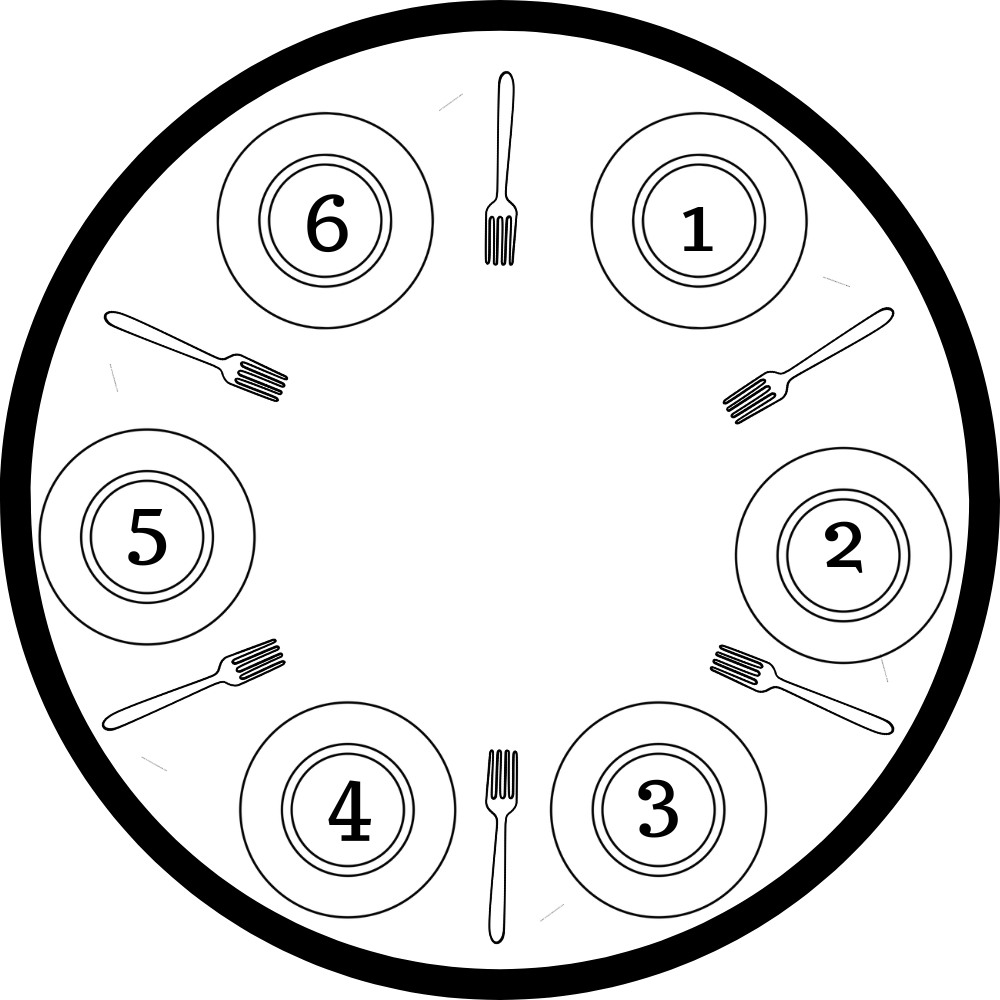
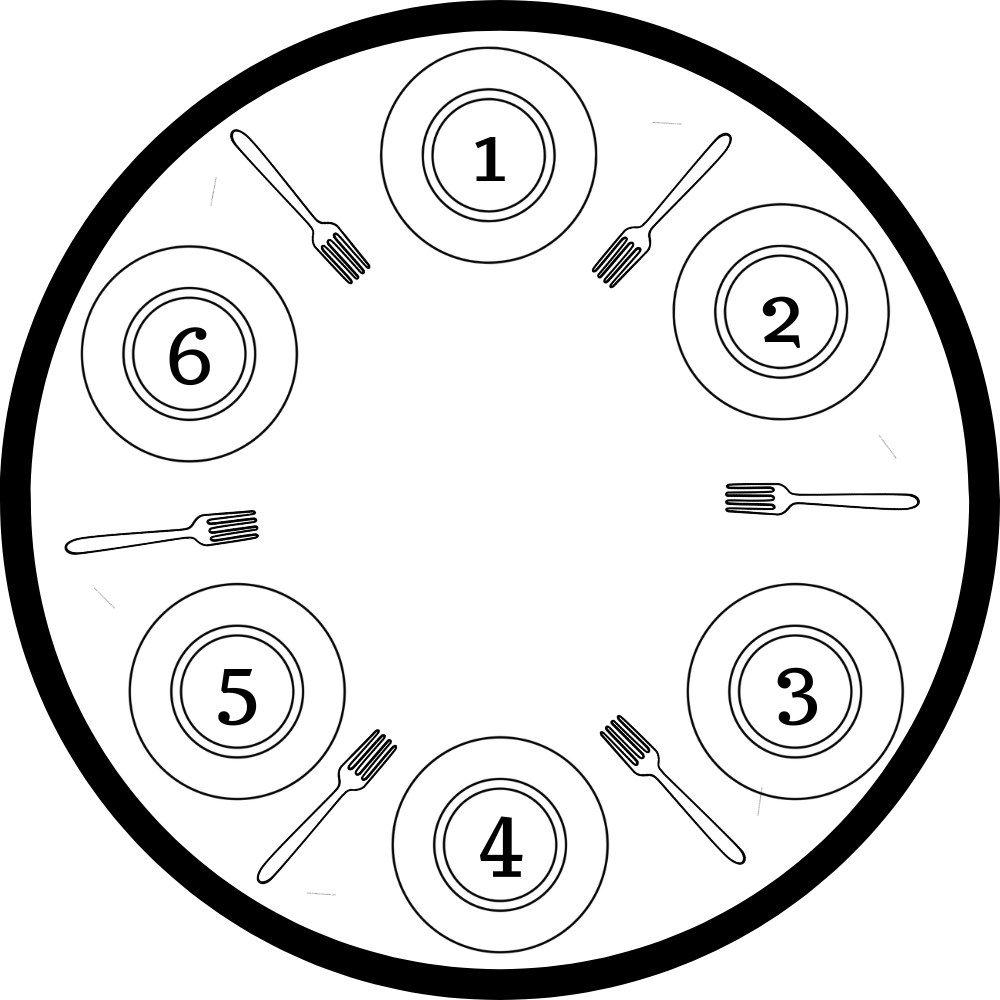
Positioning Elements

diff --git a/src/app/components/quantity-selection/logic-application-philosophers/logic-application-philosophers.component.ts b/src/app/components/quantity-selection/logic-application-philosophers/logic-application-philosophers.component.ts
@@ -1,20 +1,21 @@
-import { Component, Input, OnChanges, SimpleChanges, ChangeDetectorRef } from '@angular/core';
+import { Component, Input, OnChanges, SimpleChanges, ChangeDetectorRef, OnDestroy } from '@angular/core';
 
 @Component({
   selector: 'app-logic-application-philosophers',
   templateUrl: './logic-application-philosophers.component.html',
   styleUrls: ['./logic-application-philosophers.component.scss']
 })
-export class LogicApplicationPhilosophersComponent implements OnChanges {
+export class LogicApplicationPhilosophersComponent implements OnChanges, OnDestroy {
   @Input() quantidadeFilosofos?: number = 3;
   imagemFilosofo: string = './assets/images/mesa3.png';
   filosofos: any[] = [];
-  private execucaoAtiva: boolean = false; 
+  private execucaoAtiva: boolean = false;
+  private intervalId: any = null;
 
   constructor(private cdr: ChangeDetectorRef) {}
 
   ngOnChanges(changes: SimpleChanges): void {
-    const quantidadeFilosofos = this.quantidadeFilosofos ?? 0; 
+    const quantidadeFilosofos = this.quantidadeFilosofos ?? 0;
     if (changes['quantidadeFilosofos'] && quantidadeFilosofos !== undefined) {
       console.log('Valor atualizado:', quantidadeFilosofos);
       this.atualizarImagemFilosofo();
@@ -23,7 +24,10 @@ export class LogicApplicationPhilosophersComponent implements OnChanges {
       this.cdr.detectChanges();
     }
   }
-  
+
+  ngOnDestroy(): void {
+    this.clearTemporizador();
+  }
 
   private atualizarImagemFilosofo(): void {
     if (this.quantidadeFilosofos && this.quantidadeFilosofos >= 3 && this.quantidadeFilosofos <= 7) {
@@ -34,7 +38,7 @@ export class LogicApplicationPhilosophersComponent implements OnChanges {
   private inicializarFilosofos(): void {
     this.filosofos = [];
     const garfosDisponiveis = new Array(this.quantidadeFilosofos || 0).fill(true);
-  
+
     for (let i = 0; i < (this.quantidadeFilosofos || 0); i++) {
       if (!(garfosDisponiveis[i] && garfosDisponiveis[(i + 1) % (this.quantidadeFilosofos || 0)])) {
         this.filosofos.push({
@@ -51,36 +55,42 @@ export class LogicApplicationPhilosophersComponent implements OnChanges {
       }
     }
   }
-  
-  
 
   private iniciarTemporizador(): void {
-    this.execucaoAtiva = true; 
-    setInterval(() => {
+    this.clearTemporizador();
+    this.execucaoAtiva = true;
+    this.intervalId = setInterval(() => {
       if (this.execucaoAtiva) {
         this.resetarEAlterarEstados();
         this.cdr.detectChanges();
       }
-    }, 7000); 
+    }, 7000);
+  }
+
+  private clearTemporizador(): void {
+    if (this.intervalId !== null) {
+      clearInterval(this.intervalId);
+      this.intervalId = null;
+    }
   }
 
   pausarExecucao(): void {
-    this.execucaoAtiva = false; 
+    this.execucaoAtiva = false;
   }
 
   retomarExecucao(): void {
-    this.execucaoAtiva = true; 
+    this.execucaoAtiva = true;
   }
 
   private resetarEAlterarEstados(): void {
     const garfosDisponiveis = new Array(this.quantidadeFilosofos || 0).fill(true);
-  
+
     this.filosofos.forEach((filosofo, index) => {
       const garfoEsquerdaDisponivel = garfosDisponiveis[index];
       const garfoDireitaDisponivel = garfosDisponiveis[(index + 1) % (this.quantidadeFilosofos || 0)];
       const garfoEsquerdaIndex = index;
       const garfoDireitaIndex = (index + 1) % (this.quantidadeFilosofos || 0);
-  
+
       if (filosofo.estado === 'Comendo' && garfoEsquerdaDisponivel && garfoDireitaDisponivel) {
         garfosDisponiveis[garfoEsquerdaIndex] = true;
         garfosDisponiveis[garfoDireitaIndex] = true;
@@ -100,5 +110,25 @@ export class LogicApplicationPhilosophersComponent implements OnChanges {
       }
     });
   }
-  
+
+  getStyle(index: number): any {
+    const angle = (2 * Math.PI / (this.quantidadeFilosofos || 1)) * index - (Math.PI / 2); 
+    const radius = 150; 
+    const x = Math.cos(angle) * radius;
+    const y = Math.sin(angle) * radius;
+    return {
+      transform: `translate(${x}px, ${y}px)`
+    };
+  }
+
+  getFilosofoImage(estado: string): string {
+    switch (estado) {
+      case 'Comendo':
+        return '../../../../assets/images/comendo.png';
+      case 'Pensando':
+        return '../../../../assets/images/pensando.png';
+      default:
+        return '../../../../assets/images/aguardando.png';
+    }
+  }
 }

diff --git a/src/app/components/quantity-selection/quantity-selection.component.ts b/src/app/components/quantity-selection/quantity-selection.component.ts
@@ -1,4 +1,4 @@
-import { Component, OnInit,Output, Input, EventEmitter } from '@angular/core';
+import { Component, OnInit, Output, EventEmitter } from '@angular/core';
 import { FormBuilder, FormGroup, Validators } from '@angular/forms';
 
 @Component({
@@ -8,7 +8,7 @@ import { FormBuilder, FormGroup, Validators } from '@angular/forms';
 })
 export class QuantitySelectionComponent implements OnInit {
   filosofosForm!: FormGroup;
-  aplicarConfiguracoesEvent = new EventEmitter<number>();
+  @Output() aplicarConfiguracoesEvent = new EventEmitter<number>();
   quantidadeFilosofos?: number;
 
   constructor(private fb: FormBuilder) {}
@@ -18,6 +18,7 @@ export class QuantitySelectionComponent implements OnInit {
       quantidadeFilosofos: [3, [Validators.min(3), Validators.max(7)]],
     });
   }
+
   decrementarQuantidade() {
     let quantidadeAtual = this.filosofosForm.value.quantidadeFilosofos;
     if (quantidadeAtual > 3) {
@@ -33,10 +34,14 @@ export class QuantitySelectionComponent implements OnInit {
       this.filosofosForm.patchValue({ quantidadeFilosofos: quantidadeAtual });
     }
   }
+
   aplicarConfiguracoes() {
     this.quantidadeFilosofos = this.filosofosForm.value.quantidadeFilosofos;
     this.aplicarConfiguracoesEvent.emit(this.quantidadeFilosofos);
     console.log(this.quantidadeFilosofos);
-    
+  }
+
+  pausarConfiguracoes(){
+    this.aplicarConfiguracoesEvent.emit(0);
   }
 }

diff --git a/src/app/components/quantity-selection/logic-application-philosophers/logic-application-philosophers.component.html b/src/app/components/quantity-selection/logic-application-philosophers/logic-application-philosophers.component.html
@@ -1,18 +1,21 @@
-    <div id="mesa-img" *ngIf="quantidadeFilosofos !== undefined">
-        <img [src]="imagemFilosofo" alt="" />
+<div id="mesa-img" *ngIf="quantidadeFilosofos !== undefined">
+    <img class="mesa" [src]="imagemFilosofo" alt="Mesa" />
+    <div *ngFor="let filosofo of filosofos; let i = index" class="position" [ngStyle]="getStyle(i)">
+        <img [src]="getFilosofoImage(filosofo.estado)" alt="Filósofo" />
+    </div>
 
-        <table>
-            <thead>
-                <tr>
-                    <th>Filósofo</th>
-                    <th>Estado</th>
-                </tr>
-            </thead>
-            <tbody>
-                <tr *ngFor="let filosofo of filosofos">
-                    <td>{{ filosofo.nome }}</td>
-                    <td>{{ filosofo.estado }}</td>
-                </tr>
-            </tbody>
-        </table>
-     </div>
+    <table>
+        <thead>
+            <tr>
+                <th>Filósofo</th>
+                <th>Estado</th>
+            </tr>
+        </thead>
+        <tbody>
+            <tr *ngFor="let filosofo of filosofos">
+                <td>{{ filosofo.nome }}</td>
+                <td>{{ filosofo.estado }}</td>
+            </tr>
+        </tbody>
+    </table>
+</div>

diff --git a/src/app/components/quantity-selection/logic-application-philosophers/logic-application-philosophers.component.scss b/src/app/components/quantity-selection/logic-application-philosophers/logic-application-philosophers.component.scss
@@ -1,23 +1,44 @@
 #mesa-img {
     display: flex;
-    align-items: flex-start;
-    justify-content: flex-end;
+    flex-direction: column;
+    align-items: center;
+    justify-content: center;
     height: 100vh;
-    padding: 20px; 
+    padding: 20px;
+    position: relative;
 }
 
 table {
     margin: 20px;
     width: 40%;
+    position: absolute;
+    left: 57%;
+    top: 5%;
 }
 
 th, td {
-    border: 1px solid black; 
+    border: 1px solid black;
     padding: 8px;
     text-align: center;
 }
-img{
-    padding: 100px 250px;
-    width: 25%; 
+
+img {
+    width: 100px;
     height: auto;
+}
+.mesa{
+    width: 210px;
+    position: absolute;
+    left:20%;
+    top: 20%;
+
+}
+
+.position {
+    width: 100px; 
+    height: auto;
+    position: absolute;
+    left:24%;
+    top: 30%;
+
 }

diff --git a/src/app/components/quantity-selection/quantity-selection.component.html b/src/app/components/quantity-selection/quantity-selection.component.html
@@ -16,7 +16,7 @@
         </button>
      </mat-form-field>
      <div>
-     <button mat-raised-button >Pausar</button>
+     <button mat-raised-button (click)="pausarConfiguracoes()" >Pausar</button>
      <button mat-raised-button class="aplicar-button" (click)="aplicarConfiguracoes()">Aplicar</button>
    </div>
   </div>
